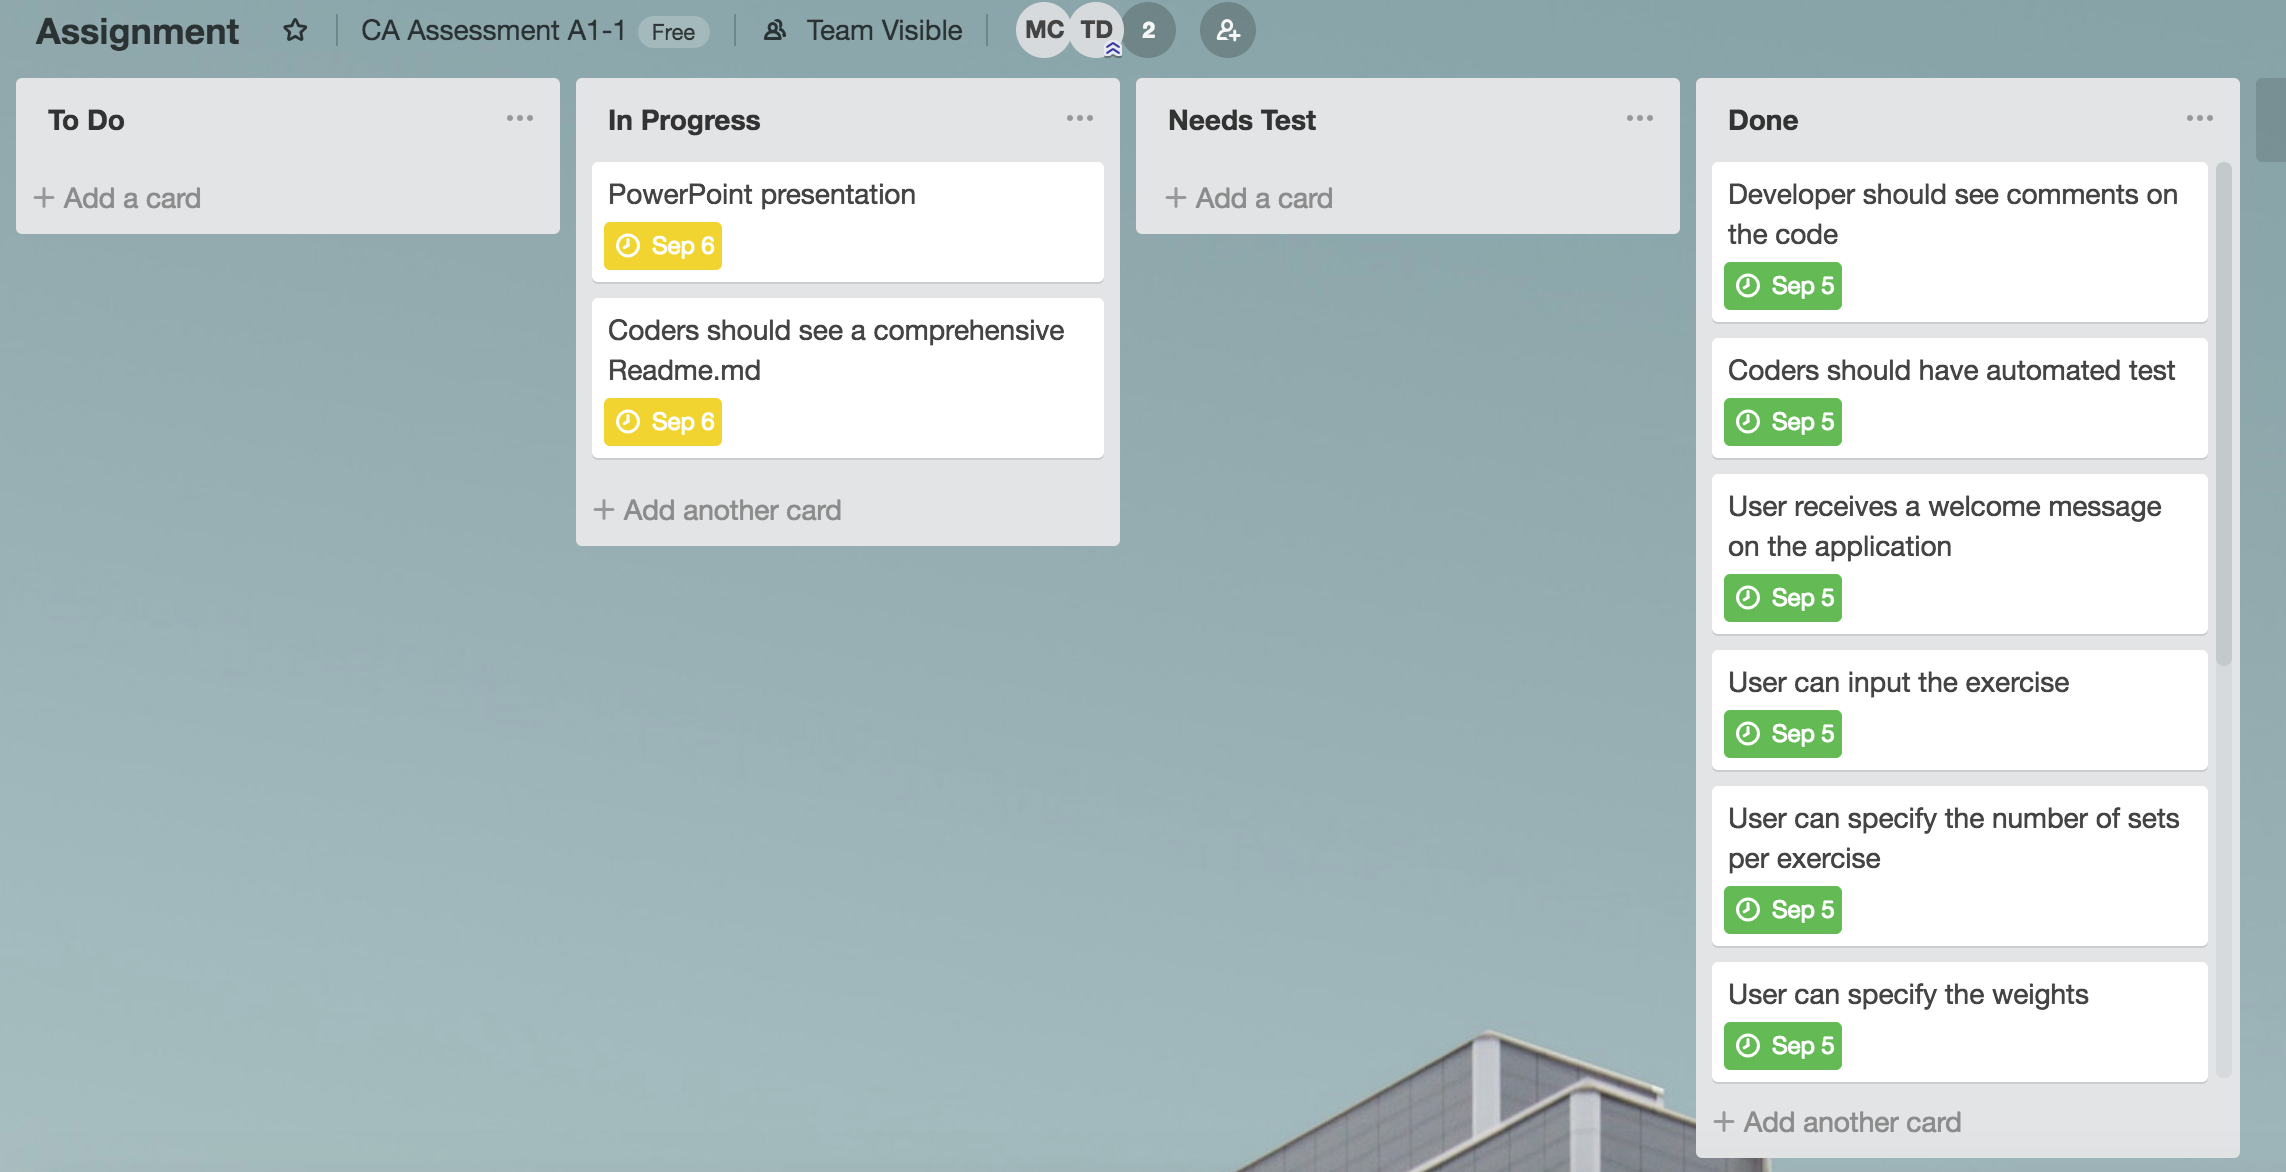
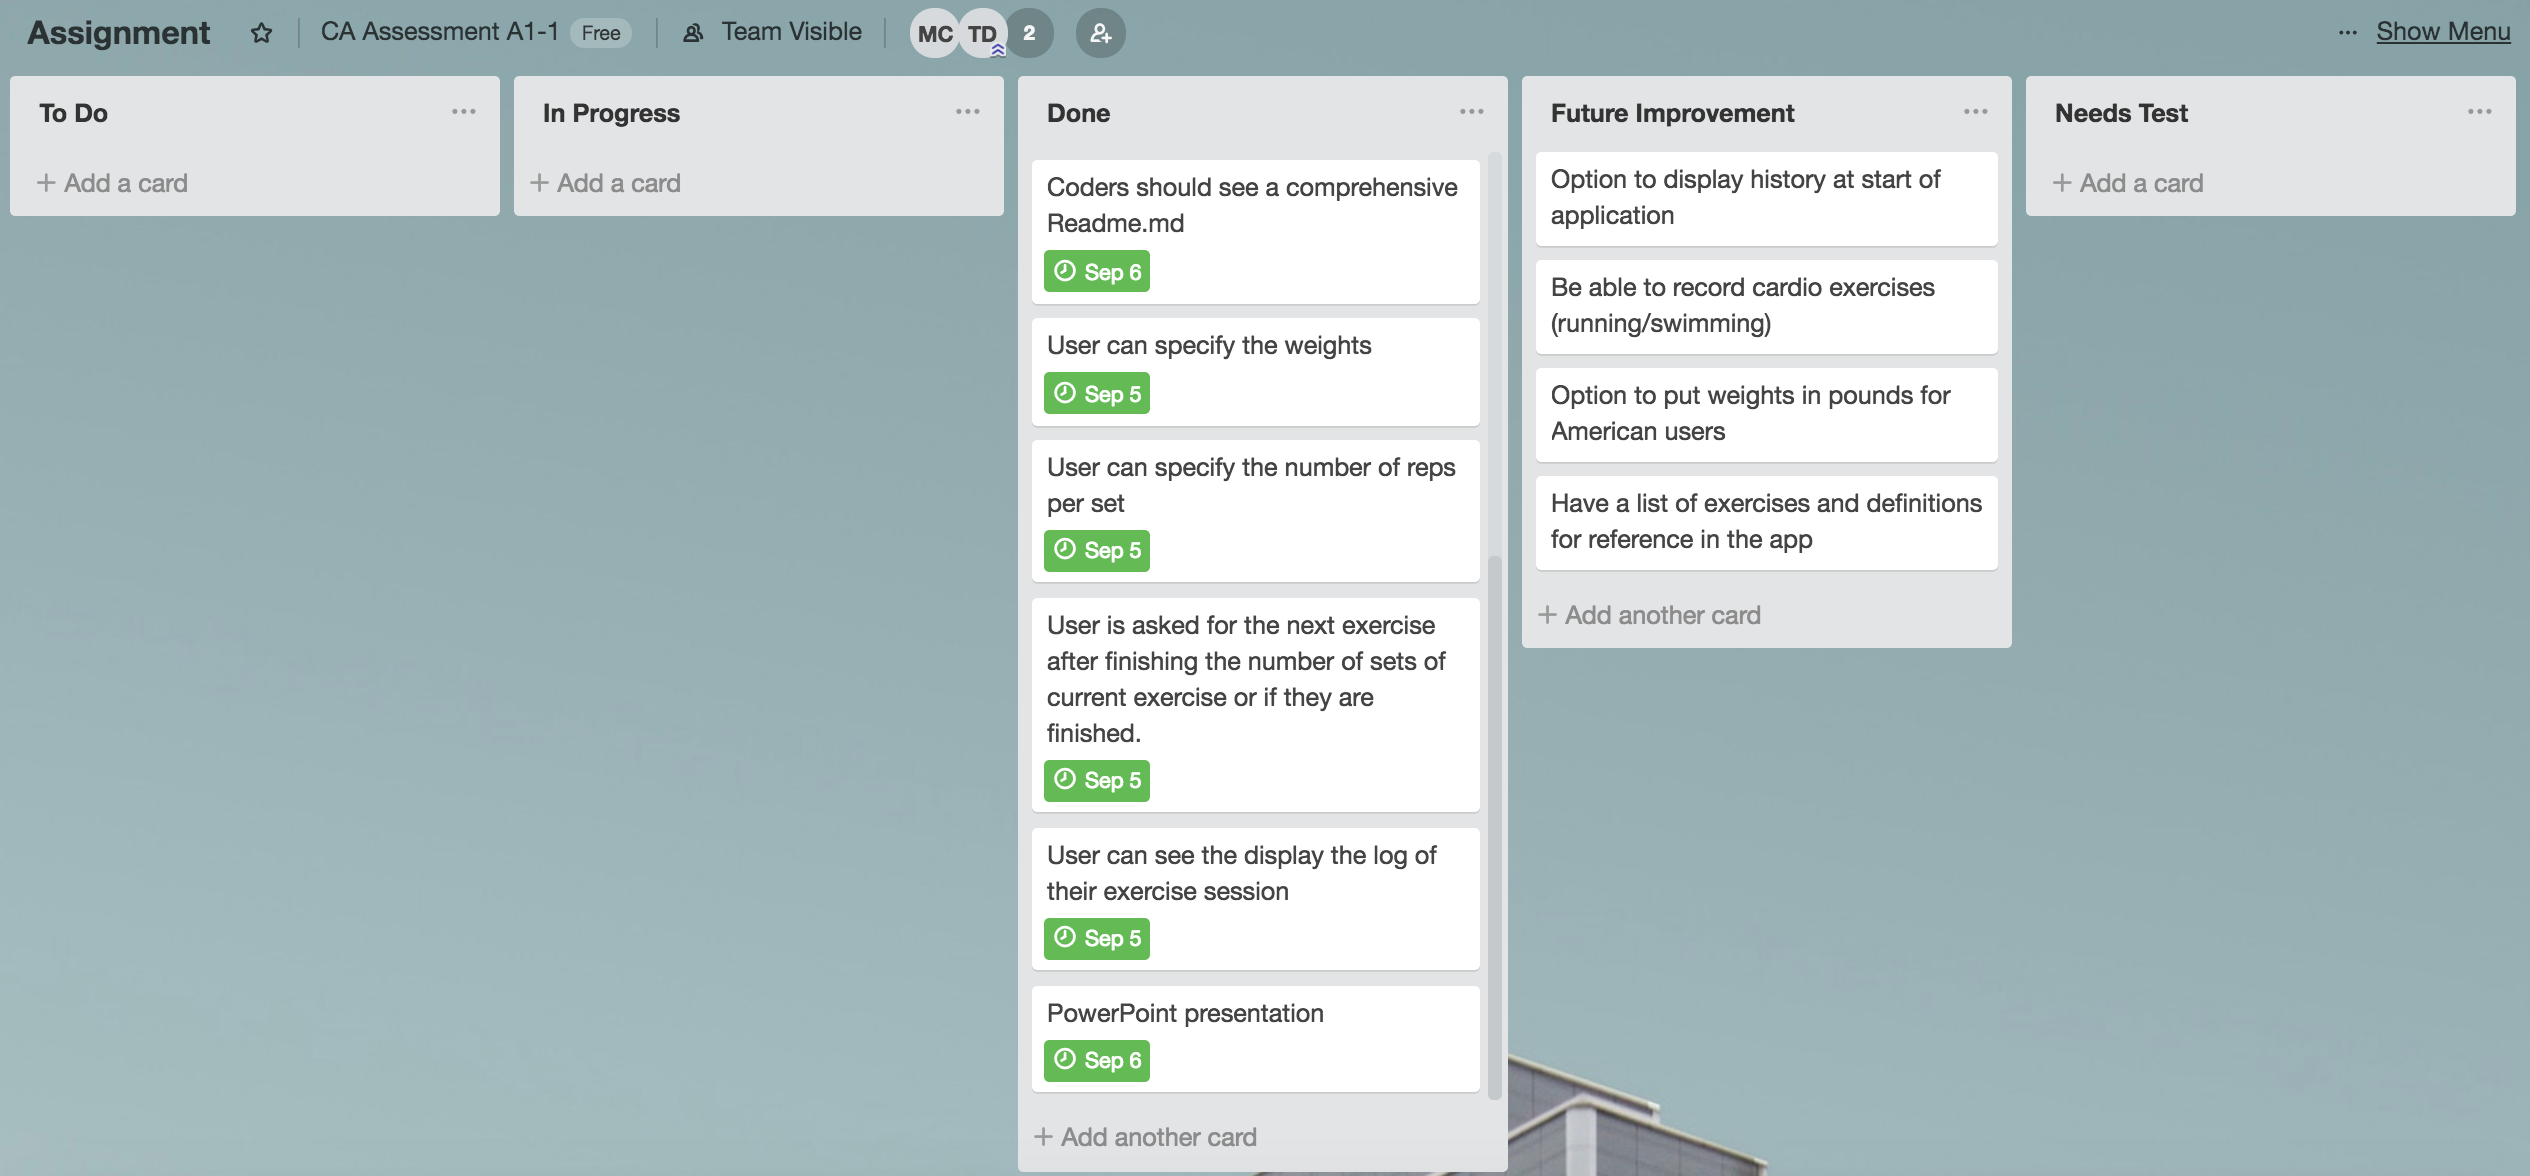
Update on code, readme, ppt

diff --git a/src/exercise_app.rb b/src/exercise_app.rb
@@ -4,10 +4,21 @@ require_relative 'exercise.rb'
 # this also requires terminal-table gem to be installed. it also uses the inhouse date library of ruby
 require 'terminal-table'
 require 'date'
+# this is for recording history, but for this version displaying the history is not yet implemented. to come in future version.
+require 'json'
 
-# setting of variables. rows will be used to store the exercise date and continue will be used as condition 
-rows=[]
+# setting of variables. workout will be used to store the exercise data and continue will be used as condition 
+workout=[]
 continue="yes"
+
+# this is for recording history, but for this version displaying the history is not yet implemented. 
+# this reads/creates the JSON file
+begin
+    history = JSON.parse(File.read('history.json'))
+rescue
+    history = []
+    File.write('history.json', JSON.dump(history))
+end
 
 # start screen
 puts `clear`  
@@ -15,7 +26,7 @@ titlerow=[["Welcome to Exercise Log App!"]]
 title = Terminal::Table.new :rows => titlerow
 puts title
 puts "This is an app that tracks your exercises as you do them. Enjoy your workout!"
-puts "Please make sure to use proper lifting techniques and stretch to warm up!"
+puts "Please make sure to use proper lifting techniques and stretch to warm up :)"
 
 # user is asked for the first exercise
 puts "To start, enter your first exercise!"
@@ -37,10 +48,12 @@ exercise=Exercise.new(name,setsno)
 # depending on the number of sets it will run the setcount method to log the exercises.
 exercise.sets.times do
 # this displays the rows. the method has a clear function to clear the screen.
-    report(rows)
+    report(workout)
     exercise.setcount
 # this pushes the exercise name, set, weights and reps into the exercise log array
-    rows << exercise.input
+    workout << exercise.input
+# this pushes the date, exercise name, set, weights and reps into the history
+    history << exercise.hist_input
 end
 
 until continue=="no"
@@ -48,7 +61,7 @@ until continue=="no"
     puts "Do you want to continue to exercise? Please enter yes or no :)"
     continue=gets.chomp.downcase
     if continue=="yes"
-        report(rows)
+        report(workout)
         puts "Enter your next exercise"
         name=gets.chomp.upcase
         begin
@@ -62,9 +75,10 @@ until continue=="no"
         end
         exercise=Exercise.new(name,setsno)
         exercise.sets.times do
-            report(rows)
+            report(workout)
             exercise.setcount
-            rows << exercise.input
+            workout << exercise.input
+            history << exercise.hist_input
         end 
     else
         puts "Please enter yes or no only!"
@@ -72,7 +86,10 @@ until continue=="no"
 end
 
 # program ends with displaying the log
-report(rows)
+report(workout)
+puts "Thanks for using the app! See above for your exercise log for this session!"
 puts "Great job on finishing your workout!"
-puts "Remember to cool down after your workout!"
-puts "Thanks for using the app! Here is your exercise log!"
+puts "Remember to cool down after your workout :)"
+# code below is for storing the history. history display is not yet implemented.
+File.write('history.json', JSON.dump(history))
+history_report(history)

diff --git a/src/utilities.rb b/src/utilities.rb
@@ -1,4 +1,4 @@
-# TO define string for error handling of integers and floats
+# To define string for error handling of integers and floats
 class String
     def numeric?
       Float(self) != nil rescue false
@@ -36,3 +36,14 @@ def report(rows)
     puts `clear`    
     puts table
 end
+
+# method to display the history. this uses terminal-table gem, please see terminal-table gem for more documentation
+# this is not yet implemented, there have to be changes on user flow to implement history
+def history_report(rows)
+    current_time = DateTime.now
+    table = Terminal::Table.new :headings => ['Date','Exercise', 'Set', 'Weight', 'Reps'], 
+    :title => "Exercise Log History",
+    :rows => rows   
+    puts table
+end
+

diff --git a/src/exercise.rb b/src/exercise.rb
@@ -43,4 +43,8 @@ class Exercise
     def input
         return ["#{@name}","#{@setcount}","#{@weight}kg","#{@reps}"]
     end
+    # this method is to push the data to the history record. display of history is not yet implement in this version.
+    def hist_input
+        return ["#{DateTime.now.strftime "%d/%m/%Y"}","#{@name}","#{@setcount}","#{@weight}kg","#{@reps}"]
+    end
 end

diff --git a/README.md b/README.md
@@ -1,12 +1,15 @@
 # READ ME 
-######
-## Coder Academy Assessent - Ruby Terminal App
+
+## Exercise Log Version 1.0
+Developed by Mark Conanan and Thanh Dao
+A Coder Academy Assessent : Ruby Terminal App
 
 #### Link to application
-[Github Repository Link] (https://github.com/markconanan/CA_Assessment)
+[Github Repository Link](https://github.com/markconanan/CA_Assessment)
 
-#### Prerequisites
-* User is required to have the terminal-table gem to run the application
+#### Requirements
+* Ruby
+* Ruby Gem: [Terminal-Table](https://github.com/tj/terminal-table)
 
 ### **Description**
 #### **Purpose**
@@ -23,8 +26,6 @@ A simple terminal app to track the progress of the user during a workout in an e
 * exercise_app.rb contains the application
 * exercise.rb contains the exercise class and methods
 * utilities.rb contains the error handling and table method to display the exercise logs
-
-
 #### **Instructions for Use**
 1. Displays welcome message. App asks user to enter the first exercise.
 2. User to enter the number the sets he/she wishes to do 
@@ -36,8 +37,7 @@ A simple terminal app to track the progress of the user during a workout in an e
 8. If user enters ‘yes’ to continue it starts from step 2
 9. If uses enters ‘no’ it shows a table of the exercises, sets, weights and reps into an easy to read table
 #### **Future Improvements**
-* Be able to save logs and store it into the application
-* Be able to correct mistakes after input (back option)
+* Option to view history at the start of the application or proceed with the workout. The app has already been coded to save history logs.
 * Be able to record cardio exercises (running/swimming)
 * Option to put weights in pounds for American users
 * Have a list of exercises and definitions for reference
@@ -79,5 +79,9 @@ Whiteboards used during brainstorming and planning
 #### **Screenshot of Trello Boards**
 ![trelloscreenshot](/docs/trelloscreenshot.png)
 
+#### **Evidence of Communication**
+*Both developers sat next to each other
+Slack screenshot
+![slackscreenshot](/docs/slackscreenshot.png)
 
 
